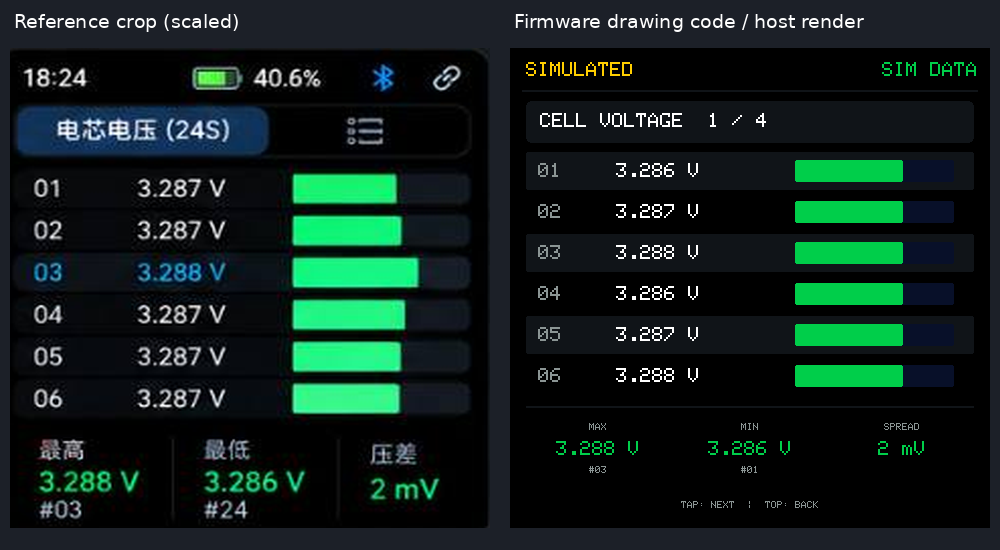
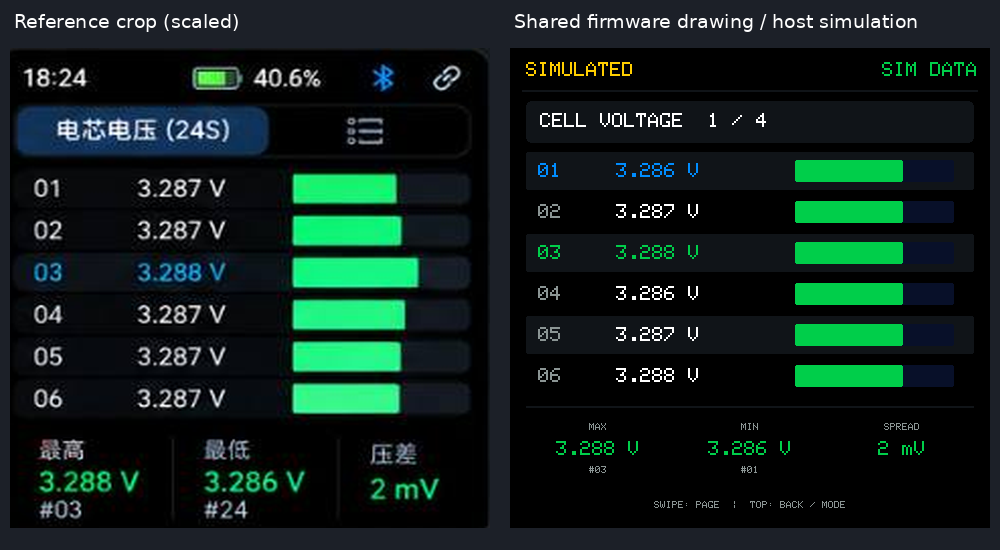
Add square menu and BLE device management

diff --git a/firmware/boards/216/MotoNav/BmsSquareUI.h b/firmware/boards/216/MotoNav/BmsSquareUI.h
@@ -45,13 +45,16 @@ template<class G> void dashboard(G &g,const Bms::Data &b,uint32_t now,bool sim) 
   if(fresh && (b.valid & Bms::Voltage)) snprintf(v,sizeof(v),"%.2f V",(double)b.voltage); else snprintf(v,sizeof(v),"-- V");
   if(fresh && (b.valid & Bms::Current)) snprintf(a,sizeof(a),"%.1f A",(double)b.current); else snprintf(a,sizeof(a),"-- A");
   if(fresh && (b.valid & Bms::Temperature)) snprintf(t,sizeof(t),"%.0f C",(double)b.temperature); else snprintf(t,sizeof(t),"-- C");
-  if(fresh && (b.valid & Bms::Soc)) snprintf(cap,sizeof(cap),"%.2f Ah",45.0*b.soc/100); else snprintf(cap,sizeof(cap),"-- Ah");
+  if(fresh && (b.valid & Bms::Remaining)) snprintf(cap,sizeof(cap),"%.2f Ah",(double)b.remainingAh); else snprintf(cap,sizeof(cap),"-- Ah");
   if(fresh && b.maxDelta(d)) snprintf(delta,sizeof(delta),"%.0f mV",(double)(d*1000)); else snprintf(delta,sizeof(delta),"-- mV");
-  card(g,16,300,v,"PACK VOLTAGE"); card(g,168,300,cap,"EST. CAPACITY"); card(g,320,300,a,"CURRENT");
-  card(g,16,370,t,"TEMPERATURE"); card(g,168,370,delta,"CELL SPREAD"); card(g,320,370,fresh ? "DATA" : "OFFLINE","LINK",fresh ? GREEN : MUTED);
+  card(g,16,300,v,"PACK VOLTAGE"); card(g,168,300,cap,"REMAINING"); card(g,320,300,a,"CURRENT");
+  char health[24];
+  if(fresh && (b.valid & Bms::Health)) snprintf(health,sizeof(health),"%.0f%%",(double)b.soh); else snprintf(health,sizeof(health),"--%%");
+  const char *status = !fresh || !(b.valid & Bms::Alarms) ? "--" : b.alarms ? "ALERT" : "OK";
+  card(g,16,370,t,"TEMPERATURE"); card(g,168,370,health,"HEALTH"); card(g,320,370,status,"BMS STATUS",fresh && (b.valid & Bms::Alarms) ? (b.alarms ? YELLOW : GREEN) : MUTED);
   text(g,240,453,"TAP FOR CELLS",1,MUTED,true);
 }
-template<class G> void cells(G &g,const Bms::Data &b,uint32_t now,bool sim,int part) {
+template<class G> void cells(G &g,const Bms::Data &b,uint32_t now,bool sim,int part,bool bars=true) {
   bool fresh=b.fresh(now,15000), valid=fresh && (b.valid & Bms::Cells);
   if(part<0 || part>3) part=0;
   top(g,fresh,sim);
@@ -62,11 +65,11 @@ template<class G> void cells(G &g,const Bms::Data &b,uint32_t now,bool sim,int p
   for(int row=0;row<6;++row){
     int i=part*6+row, y=104+row*41;
     if(row%2==0) g.fillRoundRect(16,y,448,38,5,CARD);
-    snprintf(s,sizeof(s),"%02d",i+1); text(g,28,y+11,s,2,MUTED);
+    snprintf(s,sizeof(s),"%02d",i+1); text(g,28,y+11,s,2,valid && i==high ? GREEN : valid && i==low ? BLUE : MUTED);
     if(valid) snprintf(s,sizeof(s),"%.3f V",(double)b.cells[i]); else snprintf(s,sizeof(s),"--.--- V");
-    text(g,106,y+11,s,2,WHITE);
-    g.fillRoundRect(285,y+8,159,22,4,TRACK);
-    if(valid){float p=fmaxf(0,fminf(1,(b.cells[i]-2.5f)/1.15f)); int width=(int)(159*p); if(width>0) g.fillRoundRect(285,y+8,width,22,4,GREEN);}
+    text(g,106,y+11,s,2,valid && i==high ? GREEN : valid && i==low ? BLUE : WHITE);
+    if(bars) g.fillRoundRect(285,y+8,159,22,4,TRACK);
+    if(valid && bars){float p=fmaxf(0,fminf(1,(b.cells[i]-2.5f)/1.15f)); int width=(int)(159*p); if(width>0) g.fillRoundRect(285,y+8,width,22,4,GREEN);}
   }
   g.fillRect(16,358,448,2,CARD);
   char a[24],c[24],d[24];
@@ -75,6 +78,6 @@ template<class G> void cells(G &g,const Bms::Data &b,uint32_t now,bool sim,int p
   text(g,88,375,"MAX",1,MUTED,true); text(g,240,375,"MIN",1,MUTED,true); text(g,392,375,"SPREAD",1,MUTED,true);
   text(g,88,393,a,2,GREEN,true); text(g,240,393,c,2,GREEN,true); text(g,392,393,d,2,GREEN,true);
   if(valid){snprintf(s,sizeof(s),"#%02d",high+1);text(g,88,418,s,1,MUTED,true);snprintf(s,sizeof(s),"#%02d",low+1);text(g,240,418,s,1,MUTED,true);}
-  text(g,240,453,"TAP: NEXT  |  TOP: BACK",1,MUTED,true);
+  text(g,240,453,"SWIPE: PAGE  |  TOP: BACK / MODE",1,MUTED,true);
 }
 }

diff --git a/firmware/boards/216/MotoNav/BmsScan.h b/firmware/boards/216/MotoNav/BmsScan.h
@@ -4,10 +4,15 @@
 #include <freertos/FreeRTOS.h>
 #include <freertos/queue.h>
 #include "BmsDiscovery.h"
+#include "BmsAdvertisement.h"
 
 // Opt-in, passive diagnostic only. Its own discovery callback does not replace
 // the phone/AMS custom GAP handler. Reports are bounded and drained on loop().
 class BmsScan {
+public:
+  struct Device { uint8_t addr[6], type; int8_t rssi; char name[24]; };
+private:
+  Device devices[6] = {}; uint8_t deviceCount = 0; uint32_t scanAt = 0; bool scanStarted = false;
   struct Report { uint8_t addr[6], type, event, len, data[31]; int8_t rssi; };
   QueueHandle_t queue = nullptr;
   BmsDiscovery discovery;
@@ -25,6 +30,27 @@ class BmsScan {
     return 0;
   }
 public:
+  unsigned count() const { return deviceCount; }
+  const Device &device(unsigned i) const { return devices[i]; }
+  bool scanning() const { return scanStarted && uint32_t(millis() - scanAt) < 5000; }
+  int startScan() {
+    if (scanning()) return -1;
+    uint8_t own = 0; ble_gap_disc_params params{};
+    params.passive = 1; params.filter_duplicates = 1; params.itvl = 160; params.window = 32;
+    int rc = queue ? ble_hs_id_infer_auto(0, &own) : -1;
+    if (!rc) rc = ble_gap_disc(own, 5000, &params, callback, this);
+    if (!rc) { deviceCount = 0; scanAt = millis(); scanStarted = true; }
+    Serial.printf("BMS passive scan rc=%d duration=5s\n", rc); return rc;
+  }
+  void connectDevice(unsigned i) {
+    if (i >= deviceCount || devices[i].type > 1) return;
+    if (scanning()) { ble_gap_disc_cancel(); scanStarted = false; }
+    const Device &d = devices[i]; char cmd[48];
+    snprintf(cmd, sizeof(cmd), "bms connect %u %02X:%02X:%02X:%02X:%02X:%02X", d.type, d.addr[5], d.addr[4], d.addr[3], d.addr[2], d.addr[1], d.addr[0]);
+    discovery.command(cmd);
+  }
+  void disconnect() { discovery.command("bms disconnect"); }
+  bool isRetryEnabled() const { return discovery.isRetryEnabled(); }
   bool isConnected() const { return discovery.isConnected(); }
   bool isConnecting() const { return discovery.isConnecting(); }
   void begin() { queue = xQueueCreate(16, sizeof(Report)); discovery.begin(); }
@@ -36,12 +62,7 @@ public:
       if (c == '\n') {
         line[used] = 0;
         if (!overflow && strcmp(line, "bms scan") == 0) {
-          uint8_t own = 0; ble_gap_disc_params params{};
-          params.passive = 1; params.filter_duplicates = 1;
-          params.itvl = 160; params.window = 32;
-          int rc = queue ? ble_hs_id_infer_auto(0, &own) : -1;
-          if (!rc) rc = ble_gap_disc(own, 5000, &params, callback, this);
-          Serial.printf("BMS passive scan rc=%d duration=5s\n", rc);
+          startScan();
         }
         if (!overflow) discovery.command(line);
         used = 0; overflow = false;
@@ -51,6 +72,13 @@ public:
     discovery.tick();
     Report r;
     for (int i = 0; queue && i < 2 && xQueueReceive(queue, &r, 0) == pdTRUE; ++i) {
+      unsigned idx = 0;
+      for (; idx < deviceCount; ++idx) if (devices[idx].type == r.type && !memcmp(devices[idx].addr, r.addr, 6)) break;
+      if (idx < 6 && (idx < deviceCount || r.type <= 1)) {
+        if (idx == deviceCount) { ++deviceCount; memset(&devices[idx], 0, sizeof(Device)); memcpy(devices[idx].addr, r.addr, 6); devices[idx].type = r.type; }
+        devices[idx].rssi = r.rssi;
+        bmsAdvertisementName(r.data, r.len, devices[idx].name, sizeof(devices[idx].name));
+      }
       Serial.printf("BMS adv %02X:%02X:%02X:%02X:%02X:%02X type=%u event=%u rssi=%d data=", r.addr[5], r.addr[4], r.addr[3], r.addr[2], r.addr[1], r.addr[0], r.type, r.event, r.rssi);
       for (int j = 0; j < r.len; ++j) Serial.printf("%02X", r.data[j]);
       Serial.println();

diff --git a/firmware/tests/render_bms_square.cpp b/firmware/tests/render_bms_square.cpp
@@ -2,6 +2,7 @@
 // Shape rasterization is a simple software approximation of Arduino_GFX;
 // this is not a capture from the physical display.
 #include "../boards/216/MotoNav/BmsSquareUI.h"
+#include "../boards/216/MotoNav/SquarePages.h"
 #include "../libraries/GFX_Library_for_Arduino/src/font/glcdfont.h"
 #include <algorithm>
 #include <cstdio>
@@ -20,10 +21,14 @@ struct Canvas {
     for(int j=0;j<r;++j)for(int i=0;i<r;++i)if((r-1-i)*(r-1-i)+(r-1-j)*(r-1-j)<=r*r){pixel(x+i,y+j,c);pixel(x+w-1-i,y+j,c);pixel(x+i,y+h-1-j,c);pixel(x+w-1-i,y+h-1-j,c);}
   }
   void drawRoundRect(int x,int y,int w,int h,int r,uint16_t c){fillRoundRect(x,y,w,h,r,c);fillRoundRect(x+1,y+1,w-2,h-2,r-1,0);}
+  void drawLine(int x0,int y0,int x1,int y1,uint16_t c){int dx=abs(x1-x0),sx=x0<x1?1:-1,dy=-abs(y1-y0),sy=y0<y1?1:-1,e=dx+dy;for(;;){pixel(x0,y0,c);if(x0==x1&&y0==y1)break;int t=2*e;if(t>=dy){e+=dy;x0+=sx;}if(t<=dx){e+=dx;y0+=sy;}}}
+  void fillTriangle(int x0,int y0,int x1,int y1,int x2,int y2,uint16_t c){int minx=std::min({x0,x1,x2}), maxx=std::max({x0,x1,x2}), miny=std::min({y0,y1,y2}),maxy=std::max({y0,y1,y2});for(int y=miny;y<=maxy;y++)for(int x=minx;x<=maxx;x++){int a=(x-x0)*(y1-y0)-(y-y0)*(x1-x0),b=(x-x1)*(y2-y1)-(y-y1)*(x2-x1),d=(x-x2)*(y0-y2)-(y-y2)*(x0-x2);if((a>=0&&b>=0&&d>=0)||(a<=0&&b<=0&&d<=0))pixel(x,y,c);}}
   void setTextSize(int n){size=n;}
   void setTextColor(uint16_t c){color=c;}
   void setCursor(int x,int y){cx=x;cy=y;}
   void print(const char *s){for(;*s;++s){unsigned ch=(unsigned char)*s;for(int i=0;i<5;++i)for(int j=0;j<8;++j)if(font[ch*5+i]&(1<<j))fillRect(cx+i*size,cy+j*size,size,size,color);cx+=6*size;}}
   void save(const char *path){FILE *f=fopen(path,"wb");if(!f)std::abort();fprintf(f,"P6\n480 480\n255\n");for(uint16_t p:pixels){unsigned char rgb[3]={(unsigned char)(((p>>11)&31)*255/31),(unsigned char)(((p>>5)&63)*255/63),(unsigned char)((p&31)*255/31)};fwrite(rgb,1,3,f);}fclose(f);}
 };
-int main(int argc,char **argv){if(argc!=3)return 2; Bms::Data b; b.link=Bms::Link::Connected;b.hasUpdate=true;b.updatedAt=1000;b.valid=Bms::Soc|Bms::Voltage|Bms::Current|Bms::Temperature|Bms::Cells;b.soc=40.6;b.voltage=78.89;b.current=0;b.temperature=22;for(int i=0;i<24;++i)b.cells[i]=3.286f+(i%3)*0.001f;Canvas g;if(!strcmp(argv[1],"summary"))BmsSquareUI::dashboard(g,b,1000,true);else if(!strncmp(argv[1],"cells",5) && argv[1][5] >= '0' && argv[1][5] <= '3' && !argv[1][6])BmsSquareUI::cells(g,b,1000,true,argv[1][5]-'0');else return 2;g.save(argv[2]);}
+int main(int argc,char **argv){if(argc!=3)return 2; Bms::Data b; b.link=Bms::Link::Connected;b.hasUpdate=true;b.updatedAt=1000;b.valid=Bms::Soc|Bms::Voltage|Bms::Current|Bms::Temperature|Bms::Cells|Bms::Remaining|Bms::Rated;b.soc=40.6;b.voltage=78.89;b.current=0;b.temperature=22;b.remainingAh=18.84f;b.ratedAh=45;for(int i=0;i<24;++i)b.cells[i]=3.286f+(i%3)*0.001f;Canvas g;if(!strcmp(argv[1],"summary"))BmsSquareUI::dashboard(g,b,1000,true);else if(!strcmp(argv[1],"menu")) SquarePages::menu(g);
+else if(!strcmp(argv[1],"bluetooth")) { SquarePages::Device d[]={{"EXAMPLE BMS", "00:11:22:33:44:55", -62}, {"EXAMPLE DEVICE", "AA:BB:CC:DD:EE:FF", -75}}; SquarePages::bluetooth(g,true,false,false,false,true,"--",d,2); }
+else if(!strncmp(argv[1],"cells",5) && argv[1][5] >= '0' && argv[1][5] <= '3' && !argv[1][6])BmsSquareUI::cells(g,b,1000,true,argv[1][5]-'0');else return 2;g.save(argv[2]);}

diff --git a/firmware/boards/216/MotoNav/SquarePages.h b/firmware/boards/216/MotoNav/SquarePages.h
@@ -1,0 +1,47 @@
+#pragma once
+#include "BmsSquareUI.h"
+#include <stdio.h>
+namespace SquarePages {
+using namespace BmsSquareUI;
+struct Device { const char *name; const char *address; int rssi; };
+template<class G> void title(G &g,const char *name) {
+  g.fillScreen(BLACK); text(g,20,15,"< MENU",2,BLUE); text(g,260,15,name,2,WHITE,true);
+  g.fillRect(16,43,448,2,CARD);
+}
+template<class G> void menu(G &g) {
+  title(g,"FUNCTIONS");
+  const char *labels[]={"NAVIGATION","MUSIC","BATTERY","BLUETOOTH","SETTINGS","ABOUT"};
+  const uint16_t colors[]={0x047f,0x6904,0x0386,0x0148,0x3186,0x3186};
+  for(int i=0;i<6;++i){ int x=20+(i%2)*225, y=62+(i/2)*132;
+    g.fillRoundRect(x,y,215,120,12,colors[i]);
+    int cx=x+107, cy=y+46;
+    if(i==0) g.fillTriangle(cx-20,cy-2,cx+22,cy-25,cx+5,cy+23,WHITE);
+    if(i==1) { g.fillRect(cx+5,cy-22,6,37,WHITE); g.fillRect(cx+5,cy-22,19,6,WHITE); g.fillCircle(cx-1,cy+16,9,WHITE); }
+    if(i==2) { g.drawRoundRect(cx-23,cy-15,44,30,5,WHITE); g.fillRect(cx+22,cy-6,5,12,WHITE); g.fillRect(cx-18,cy-10,26,20,WHITE); }
+    if(i==3) { g.drawLine(cx,cy-25,cx,cy+25,WHITE); g.drawLine(cx,cy-25,cx+15,cy-12,WHITE); g.drawLine(cx+15,cy-12,cx-14,cy+14,WHITE); g.drawLine(cx-14,cy-14,cx+15,cy+12,WHITE); g.drawLine(cx+15,cy+12,cx,cy+25,WHITE); }
+    if(i==4) { g.fillCircle(cx,cy,21,WHITE); g.fillCircle(cx,cy,9,colors[i]); }
+    if(i==5) { g.fillCircle(cx,cy,21,WHITE); text(g,cx,cy-14,"i",3,colors[i],true); }
+    text(g,x+107,y+87,labels[i],2,WHITE,true);
+  }
+}
+template<class G> void bluetooth(G &g,bool phone,bool connected,bool connecting,bool scanning,bool retry,const char *age,const Device *d,int count) {
+  title(g,"BLUETOOTH");
+  g.fillRoundRect(16,54,448,52,8,CARD); text(g,28,64,"PHONE",2,WHITE); text(g,420,64,phone?"CONNECTED":"OFFLINE",2,phone?GREEN:MUTED,true);
+  g.fillRoundRect(16,112,448,52,8,CARD); text(g,28,122,"BMS",2,WHITE); text(g,420,122,connected?"CONNECTED":connecting?"CONNECTING":"OFFLINE",2,connected?GREEN:MUTED,true);
+  text(g,22,175,scanning?"SCANNING...":"NEARBY (TAP TO CONNECT)",1,MUTED); text(g,290,175,retry?"RETRY ON":"RETRY OFF",1,MUTED); text(g,456,175,age,1,MUTED,true);
+  for(int i=0;i<4;++i) {
+    int y=195+i*52; g.fillRoundRect(16,y,448,46,7,CARD);
+    if(i<count) { char r[24]; text(g,28,y+5,d[i].name && d[i].name[0] ? d[i].name : "UNKNOWN",2,WHITE);
+      text(g,28,y+27,d[i].address,1,MUTED); snprintf(r,sizeof(r),"%d dBm",d[i].rssi); text(g,416,y+15,r,1,MUTED,true);
+    }
+  }
+  g.fillRoundRect(16,413,215,48,10,BLUE); g.fillRoundRect(249,413,215,48,10,CARD);
+  text(g,123,427,scanning?"SCANNING":"SCAN",2,WHITE,true); text(g,356,427,"DISCONNECT",2,WHITE,true);
+}
+template<class G> void info(G &g,bool about) {
+  title(g,about?"ABOUT":"SETTINGS");
+  text(g,240,150,about?"MOTONAV":"PHONE SETTINGS",3,WHITE,true);
+  text(g,240,210,about?"ESP32-S3 / 2.16":"USE PHONE APP",2,MUTED,true);
+  text(g,240,245,about?"BMS PROTOCOL UNKNOWN":"FOR EXISTING OPTIONS",2,MUTED,true);
+}
+}

diff --git a/firmware/tests/SquarePagesTest.cpp b/firmware/tests/SquarePagesTest.cpp
@@ -1,0 +1,23 @@
+#include "../boards/216/MotoNav/SquarePages.h"
+#include <cassert>
+#include <string>
+#include <vector>
+struct Canvas {
+  std::vector<std::string> words;
+  void fillScreen(uint16_t) {} void fillRect(int,int,int,int,uint16_t) {}
+  void fillRoundRect(int,int,int,int,int,uint16_t) {} void drawRoundRect(int,int,int,int,int,uint16_t) {}
+  void fillCircle(int,int,int,uint16_t) {} void fillTriangle(int,int,int,int,int,int,uint16_t) {}
+  void drawLine(int,int,int,int,uint16_t) {} void setTextSize(int) {} void setTextColor(uint16_t) {}
+  void setCursor(int,int) {} void print(const char *s) { words.emplace_back(s); }
+  bool has(const char *s) const { for (auto &x:words) if (x==s) return true; return false; }
+};
+int main() {
+  Canvas menu; SquarePages::menu(menu);
+  for (auto s : {"NAVIGATION","MUSIC","BATTERY","BLUETOOTH","SETTINGS","ABOUT"}) assert(menu.has(s));
+  Canvas empty; SquarePages::bluetooth(empty,false,false,false,false,false,"--",nullptr,0);
+  assert(empty.has("PHONE") && empty.has("BMS") && empty.has("OFFLINE") && empty.has("RETRY OFF"));
+  assert(!empty.has("EXAMPLE BMS"));
+  SquarePages::Device d[]={{"test peer","00:11:22:33:44:55",-62}};
+  Canvas scan; SquarePages::bluetooth(scan,true,false,true,false,true,"--",d,1);
+  assert(scan.has("CONNECTED") && scan.has("CONNECTING") && scan.has("test peer") && scan.has("-62 dBm"));
+}

diff --git a/firmware/boards/216/MotoNav/BmsData.h b/firmware/boards/216/MotoNav/BmsData.h
@@ -5,11 +5,13 @@
 // Values are valid only when their corresponding bit is set. No wire format is
 // assumed here; a verified protocol decoder must populate these fields.
 namespace Bms {
-enum Field : uint8_t { Soc = 1, Voltage = 2, Current = 4, Temperature = 8, Cells = 16 };
+enum Field : uint16_t { Soc = 1, Voltage = 2, Current = 4, Temperature = 8, Cells = 16, Remaining = 32, Rated = 64, Health = 128, Cycles = 256, Alarms = 512 };
 enum class Link : uint8_t { Disconnected, Connecting, Connected };
 struct Data {
-  uint8_t valid = 0;
+  uint16_t valid = 0;
   float soc = 0, voltage = 0, current = 0, temperature = 0;
+  float remainingAh = 0, ratedAh = 0, soh = 0;
+  uint32_t cycles = 0, alarms = 0;
   float cells[24] = {};
   Link link = Link::Disconnected;
   uint32_t updatedAt = 0;

diff --git a/firmware/boards/216/MotoNav/BmsAdvertisement.h b/firmware/boards/216/MotoNav/BmsAdvertisement.h
@@ -1,0 +1,20 @@
+#pragma once
+#include <stddef.h>
+#include <stdint.h>
+// Extract a short, printable local name from a BLE advertising payload.
+// No peer identity or BMS protocol is inferred from the name.
+inline bool bmsAdvertisementName(const uint8_t *data, size_t size, char *out, size_t capacity) {
+  if (!data || !out || !capacity) return false;
+  for (size_t off=0; off<size;) {
+    size_t len=data[off];
+    if (!len) return false;
+    if (len > size - off - 1) return false;
+    if ((data[off+1]==8 || data[off+1]==9) && len>1) {
+      size_t n=len-1; if(n>=capacity)n=capacity-1;
+      for(size_t i=0;i<n;++i) { uint8_t c=data[off+2+i]; out[i]=(c>=32 && c<127) ? (char)c : '?'; }
+      out[n]=0; return true;
+    }
+    off += len+1;
+  }
+  return false;
+}

diff --git a/firmware/tests/BmsAdvertisementTest.cpp b/firmware/tests/BmsAdvertisementTest.cpp
@@ -1,0 +1,11 @@
+#include "../boards/216/MotoNav/BmsAdvertisement.h"
+#include <cassert>
+#include <cstring>
+int main() {
+  const uint8_t adv[] = {2,1,6,6,9,'H','e','l','l','o'};
+  char name[4] = {}; assert(bmsAdvertisementName(adv,sizeof(adv),name,sizeof(name)) && !strcmp(name,"Hel"));
+  const uint8_t bad[] = {9,9,'x'}; strcpy(name,"old"); assert(!bmsAdvertisementName(bad,sizeof(bad),name,sizeof(name)) && !strcmp(name,"old"));
+  const uint8_t nonascii[] = {3,9,'A',0xff}; assert(bmsAdvertisementName(nonascii,sizeof(nonascii),name,sizeof(name)) && !strcmp(name,"A?"));
+  assert(!bmsAdvertisementName(nullptr,0,name,sizeof(name)));
+  const uint8_t nameless[] = {2,1,6,0}; assert(!bmsAdvertisementName(nameless,sizeof(nameless),name,sizeof(name)));
+}

diff --git a/firmware/tests/BmsDataTest.cpp b/firmware/tests/BmsDataTest.cpp
@@ -3,6 +3,11 @@
 #include <cmath>
 int main() {
   Bms::Data d;
+  d.valid = Bms::Cycles | Bms::Alarms;
+  d.cycles = 125; d.alarms = 3;
+  assert((d.valid & Bms::Cycles) && (d.valid & Bms::Alarms));
+  assert(!(d.valid & Bms::Remaining) && !(d.valid & Bms::Health));
+  d.valid = 0;
   float delta = 0;
   assert(!d.fresh(0, 1000));
   assert(!d.maxDelta(delta));

diff --git a/firmware/boards/216/MotoNav/BmsDiscovery.h b/firmware/boards/216/MotoNav/BmsDiscovery.h
@@ -74,6 +74,7 @@ class BmsDiscovery {
   }
 public:
   bool isConnected() const { return conn != 0xffff; }
+  bool isRetryEnabled() const { return retryEnabled; }
   bool isConnecting() const { return connecting; }
   void begin() { queue = xQueueCreate(24, sizeof(Event)); packets = xQueueCreate(8, sizeof(Packet)); }
   void command(const char *s) {

diff --git a/docs/bms/visual-review/README.md b/docs/bms/visual-review/README.md
@@ -1,26 +1,21 @@
-# 2.16 visual review — work in progress
+# Square UI review — work in progress
 
-Reference: the user's promotional mockup. The reference crops are enlarged low-resolution JPEG regions, not source design files. The implementation currently covers the two battery screens only. Navigation, music, BLE device list, and menu have not been redesigned or compared to the reference.
+The original reference was the user's uploaded mockup. The previous session saved reference crops for the battery summary and cell page in `summary-compare.png` and `cells-compare.png`. The original temporary upload was no longer present after the environment restarted, so reference crops for navigation, music, BLE and menu cannot currently be regenerated. The two comparison files reuse the previously saved left-hand crops; the current renders are on the right.
 
-The 480×480 `summary.png` and `cells-*.png` are generated by compiling and executing `BmsSquareUI.h`, the same drawing functions used by the firmware. The host `Canvas` approximates Arduino_GFX shape rasterization and uses the repository bitmap font. These images are software renders, **not device framebuffer captures**, and do not prove exact pixel agreement with the board. The side-by-side images combine these renders and crops of the reference. No actual device or capture was available.
+`summary.png`, `cells-1.png` through `cells-4.png`, `menu.png` and `bluetooth.png` are 480×480 software renders generated by compiling the same `BmsSquareUI.h` and `SquarePages.h` drawing functions used by the firmware. The host Canvas approximates Arduino_GFX shape rasterization; none is an ESP32 framebuffer capture or proof of physical appearance. Bluetooth preview peer names, addresses, RSSI and phone state are simulated exclusively in the host renderer. The device page uses only discovered advertisements.
 
-Differences: the existing bitmap font is pixelated and English-only, unlike the smooth Chinese typography in the reference; the status bar deliberately says SIMULATED/SIM DATA rather than inventing a time or phone status. The capacity is an estimate of 45 Ah × SOC and marked EST. CAPACITY; health and a normal/safe BMS status are not asserted because they are not available. The six rows in the reference are four selectable groups of six on the device. Green gauge and bars are flat, without the reference's glow and gradient. The maximum/minimum indicators use the simulation fixture and do not imply actual pack values.
+Differences from the mockup remain substantial: firmware bitmap fonts are English and pixelated; Chinese typography, actual album art, reference icons/gradients and high-fidelity map layout are not finished. The menu is two columns by three rows as requested, while the pictured promotional image uses three columns by two rows. Health and BMS status are `--` unless valid data exists. The simulation fixture displays 18.84 Ah explicitly as a simulated field; the unknown real protocol never supplies it. No screen has completed three verified visual iterations and navigation/music do not yet have an accurate end-to-end screenshot.
 
-On the existing weather page swipe left to the BMS page. Tap the dashboard to show cells 1–6; tap the body to cycle through the four groups, and tap the top area to return to the dashboard. Swipe right to weather. Touch, screen geometry, navigation/media coexistence and actual appearance still need testing on the device. The existing adaptation contains circular clipping in slide animation and non-cardinal rotation, which has not yet been reworked for the requested square appearance; the preview is not a validation of those paths.
+Navigation: tap MENU at the top left for the menu or SOC at the top right for the battery screen. Existing swipe paths remain. Battery: tap the dashboard for cells; swipe vertically for groups of six, tap the upper left to return or upper right to toggle bars/list. Bluetooth: tap SCAN, tap a discovered row to connect, swipe for remaining entries, or tap DISCONNECT to stop retries. BLE subscriptions remain explicitly selected via serial diagnostics; the touchscreen does not guess characteristics.
 
-Reproduce raw renders from the repository root:
+Host render examples:
 
 ```sh
 g++ -std=c++17 -O2 firmware/tests/render_bms_square.cpp -o /tmp/render_bms_square
 /tmp/render_bms_square summary /tmp/summary.ppm
-/tmp/render_bms_square cells0 /tmp/cells-1.ppm
-/tmp/render_bms_square cells1 /tmp/cells-2.ppm
-/tmp/render_bms_square cells2 /tmp/cells-3.ppm
-/tmp/render_bms_square cells3 /tmp/cells-4.ppm
+/tmp/render_bms_square cells0 /tmp/cells.ppm
+/tmp/render_bms_square menu /tmp/menu.ppm
+/tmp/render_bms_square bluetooth /tmp/bluetooth.ppm
 ```
 
-Default firmware retains unknown-protocol/no-data behavior. The explicit `MOTONAV_BMS_SIMULATION=1` build flag is required for the simulated numbers shown in these renders. No image is used as a firmware background.
-
-Verification on this change: the 2.16 default build with ESP32 Arduino core 3.3.10 succeeded (1,284,167 bytes of application; 89,076 bytes static RAM). Host tests include the unavailable/stale state and all four 24-cell groups, plus the existing media, rotation, idle-timer and flasher tests. No physical screen, touch, phone/BMS radio, visual or battery test has been run.
-
-The separately compiled `MOTONAV_BMS_SIMULATION=1` build also succeeded (1,284,243 bytes of application; 89,076 bytes static RAM).
+The simulation firmware requires `--build-property 'compiler.cpp.extra_flags=-DMOTONAV_BMS_SIMULATION=1'`. No image is used as a firmware background. No real screen, touch, navigation, music or BLE interaction has been verified for these changes.

diff --git a/docs/bms/SOURCE_REVIEW.md b/docs/bms/SOURCE_REVIEW.md
@@ -1,0 +1,17 @@
+# 2.16 firmware review and limits
+
+Base: `adapt-216` at `83b4390`; development continues on `feature/byd-bms`. This is a focused review of the listed paths, not a claim that all firmware behavior has been proven correct.
+
+- Display: `boards/216/MotoNav/MotoNav.ino` creates a CO5300 over ESP32 QSPI and an Arduino_GFX framebuffer, with PSRAM double buffers and asynchronous flush. `pin_config.h` provides the 480×480 2.16 board configuration. Normal and cardinal rotation send the full square framebuffer. Free rotation and page transition code previously used circular spans; this change uses full-width destination spans. Rotated source pixels outside the square are still black, as expected. Physical panel orientation, controller timing, tearing and touch alignment have not been verified here.
+- Touch: CST92xx on I2C, interrupt-driven polling; point and gesture vectors share `touchVectorToCanvas` with board flips and rotation. Screen interactions are applied on release. The new menu and BMS controls use this path; simultaneous navigation, scrolling, phone calls and rotation need hardware testing.
+- Phone/navigation: the firmware retains its existing encrypted BLE peripheral, RX queue, message parser, bitmap text, map/raster rendering and dirty-frame pipeline. The square UI adds navigation MENU/SOC shortcuts; it does not replace the existing map renderer with the reference image. The map renderer and some navigation artwork still contain circular layout assumptions and have not been fully redesigned for a square screen. Phone data, not preview data, remains the source for navigation/speed/trip values.
+- Music: the existing HID/AMS and app control paths remain in use. The touch hit locations were moved with the buttons. Phone-provided text images are fitted to bounded rows. The protocol does not currently provide a usable album-cover image here, so the page says `NO COVER`; progress is shown only when AMS provides valid timing. Volume control is not invented. Hardware media-control and gesture regression testing remains required.
+- BLE: the phone server and Apple Media client's custom GAP handler remain in place. `BmsScan` uses a separate NimBLE callback and bounded queues; passive scan results are kept in at most six entries, four visible per page. Non-ASCII advertisement names are currently replaced with `?` for the bitmap font; the raw advertisement bytes remain in serial logs. An explicitly selected address connects; discovery and diagnostic notify/indicate subscription are asynchronous. Only an explicitly selected characteristic's standard CCCD can be written; no unknown BMS command is sent. Notification logging truncates above 128 bytes and reports queue drops. Reconnection uses an in-RAM address and requires manual resubscription after rediscovery. The ESP32-S3 3.3.10 library configuration allows three connections, but this is not proof of simultaneous phone/BMS reliability or performance. No RF, heap-leak, pairing or long-running measurements exist yet.
+- BMS: field-level validity flags include SOC, voltage, current, temperature, cell values, capacity, cycles, SOH and alarms. The protocol decoder intentionally rejects unknown packets. Connection transitions invalidate prior measurements. The default build shows missing/stale values as `--`; the simulation build is conspicuously marked. A single timestamp currently represents the sample, not individual field timestamps.
+- Power: the existing five-minute no-navigation shutdown remains. Longer BLE-only tests must account for it; it has not been redesigned.
+
+The reference mockup contains six square pages. Battery summary/cells, menu and BLE page use shared firmware drawing functions and have host raster previews; host rasterization approximates Arduino_GFX and is not a device framebuffer capture. Navigation and music now include square-oriented changes but have no trustworthy complete 480×480 screenshots or three-round visual reviews. Their remaining typography, artwork, square map layout, status bar and visual equivalence are not complete. There is no proof that physical interaction works, and settings currently directs users to existing phone controls rather than inventing settings.
+
+Current 2.16 default build with ESP32 Arduino core 3.3.10 succeeded: application 1,289,319 / 3,145,728 bytes; static RAM 89,308 / 327,680 bytes. This does not measure runtime heap, PSRAM fragmentation or BLE coexistence. Host C++ data, UI, advertisement, media and rotation tests, idle timer C test, and five Python flasher tests passed. Existing deprecated touch-header warning remains; no hardware test or flash was performed.
+
+The separate `MOTONAV_BMS_SIMULATION=1` 2.16 build also succeeded: application 1,289,363 / 3,145,728 bytes; static RAM 89,308 / 327,680 bytes. Both builds were made with Arduino CLI and ESP32 core 3.3.10; see `firmware/BMS_PROGRESS.md` for build and manual test instructions.
